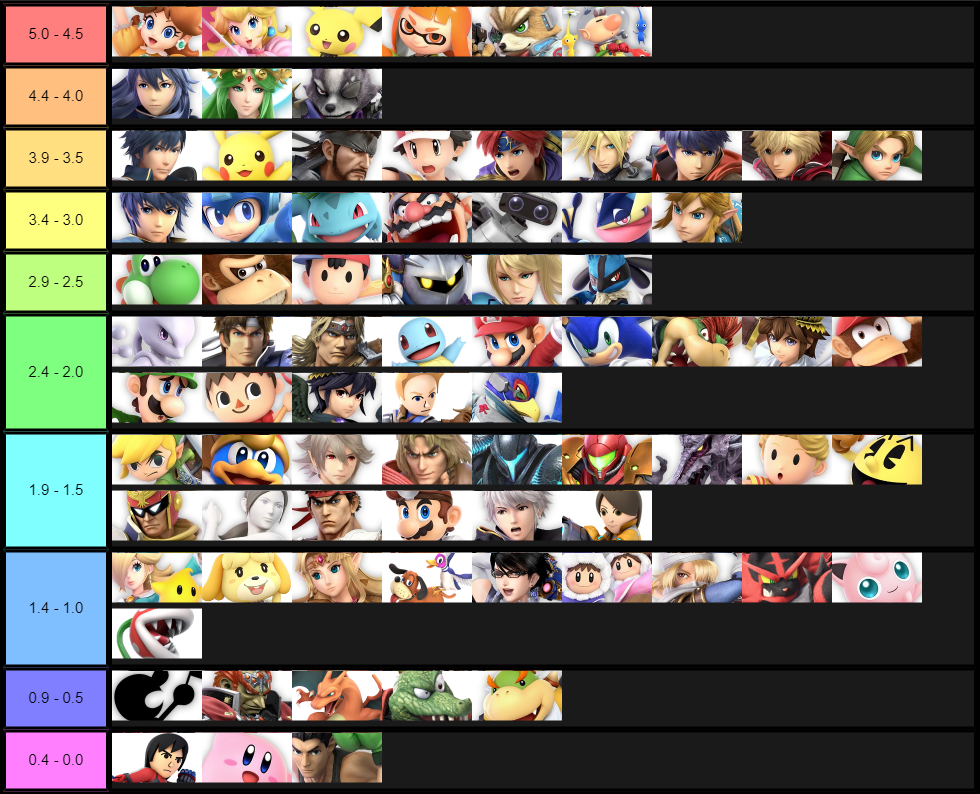
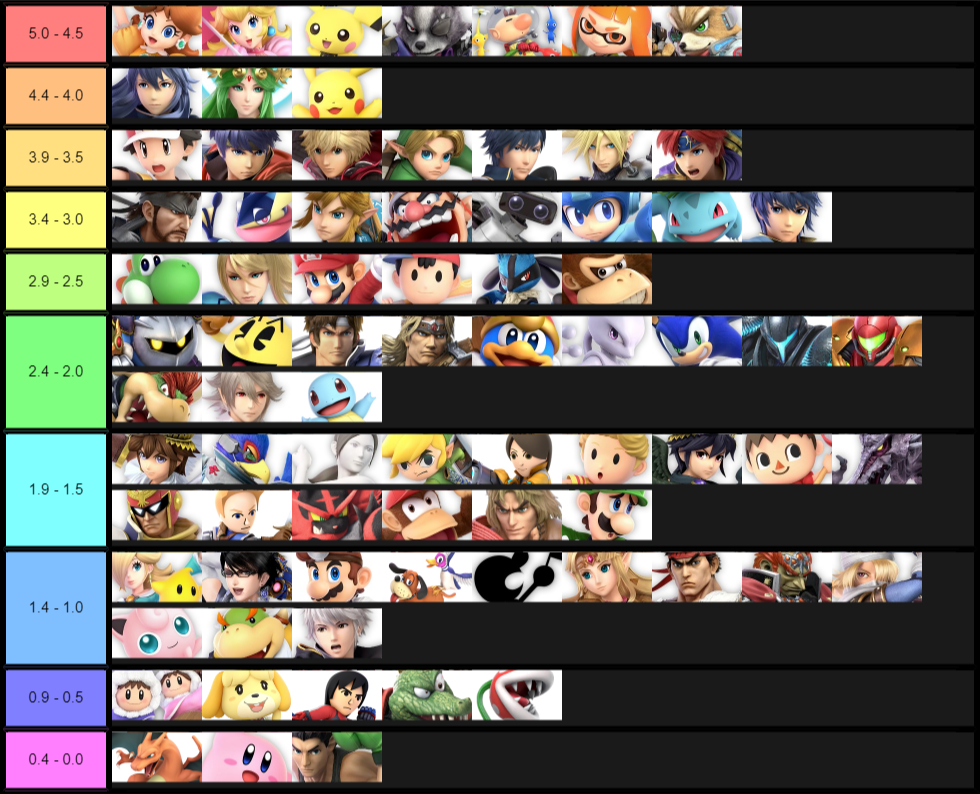
New Ultimate tierlist

diff --git a/commands/tierlist.js b/commands/tierlist.js
@@ -47,7 +47,7 @@ module.exports = {
             case 'ultimate':
             case 'u':
             case '5':
-                message.channel.send('This tier list is not an official tier list. It was made by averaging the tier lists from pro players. Last updated: 02/10/2019', {file: 'tierlists/ultimatetl.png'});
+                message.channel.send('This tier list is not an official tier list. It was made by averaging the tier lists from pro players. Last updated: 02/27/2019', {file: 'tierlists/ultimatetl.png'});
                 break;
             default:
                 message.channel.send('You didn\'t specify a Smash game! (64/melee/brawl/brawlminus/projectm/4/ultimate)');
